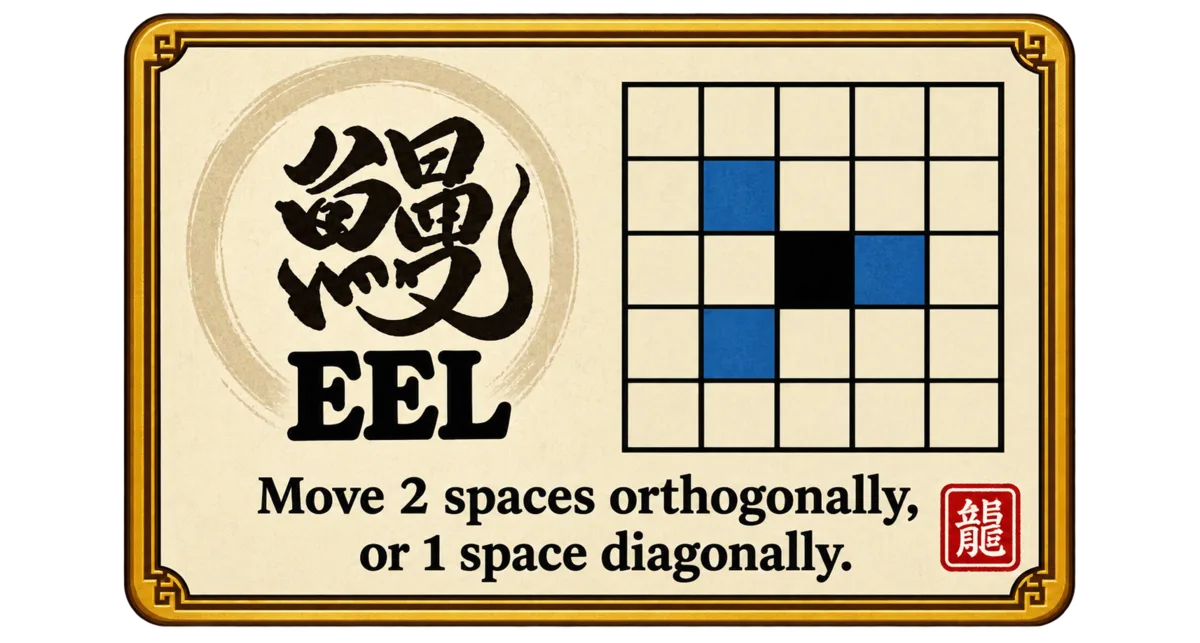
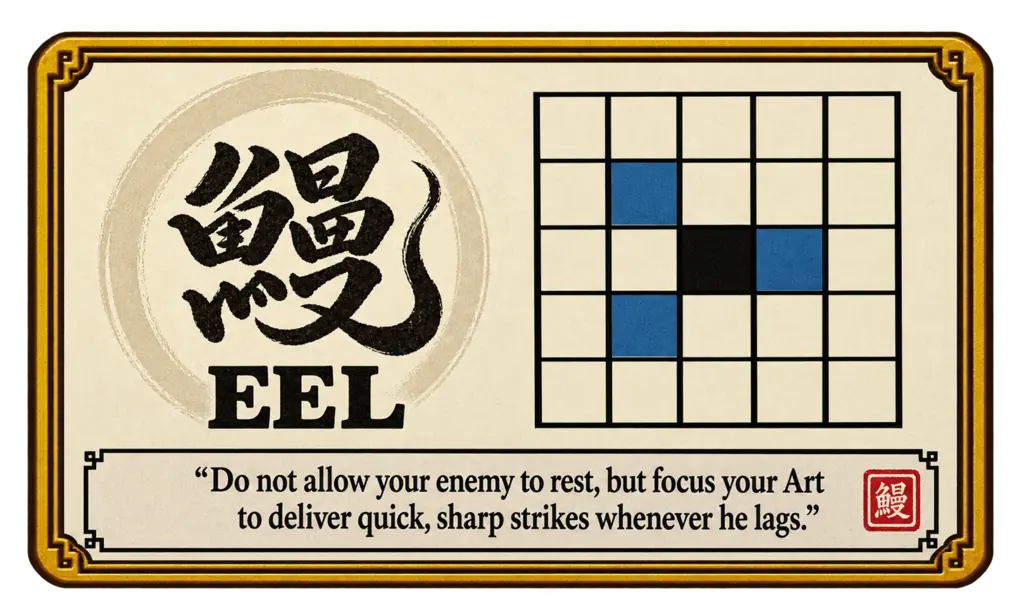
Add optimized artwork for all Onitama cards

diff --git a/app/src/main/kotlin/com/mkdev/mkboardgames/games/onitama/Onitama.kt b/app/src/main/kotlin/com/mkdev/mkboardgames/games/onitama/Onitama.kt
@@ -30,21 +30,21 @@ object OnitamaCards {
      * side of the mat. Black mirrors both axes when using a card.
      */
     val all: List<OnitamaCard> = listOf(
-        OnitamaCard("tiger", "Tiger", listOf(Position(-2, 0), Position(1, 0))),
+        OnitamaCard("tiger", "Tiger", listOf(Position(-2, 0), Position(1, 0)), "onitama_card_tiger.webp"),
         OnitamaCard("dragon", "Dragon", listOf(Position(-1, -2), Position(-1, 2), Position(1, -1), Position(1, 1)), "onitama_card_dragon.webp"),
-        OnitamaCard("frog", "Frog", listOf(Position(-1, -1), Position(0, -2), Position(1, 1))),
-        OnitamaCard("rabbit", "Rabbit", listOf(Position(-1, 1), Position(0, 2), Position(1, -1))),
-        OnitamaCard("crab", "Crab", listOf(Position(-1, 0), Position(0, -2), Position(0, 2))),
-        OnitamaCard("elephant", "Elephant", listOf(Position(-1, -1), Position(-1, 1), Position(0, -1), Position(0, 1))),
-        OnitamaCard("goose", "Goose", listOf(Position(-1, -1), Position(0, -1), Position(0, 1), Position(1, 1))),
-        OnitamaCard("rooster", "Rooster", listOf(Position(-1, 1), Position(0, -1), Position(0, 1), Position(1, -1))),
+        OnitamaCard("frog", "Frog", listOf(Position(-1, -1), Position(0, -2), Position(1, 1)), "onitama_card_frog.webp"),
+        OnitamaCard("rabbit", "Rabbit", listOf(Position(-1, 1), Position(0, 2), Position(1, -1)), "onitama_card_rabbit.webp"),
+        OnitamaCard("crab", "Crab", listOf(Position(-1, 0), Position(0, -2), Position(0, 2)), "onitama_card_crab.webp"),
+        OnitamaCard("elephant", "Elephant", listOf(Position(-1, -1), Position(-1, 1), Position(0, -1), Position(0, 1)), "onitama_card_elephant.webp"),
+        OnitamaCard("goose", "Goose", listOf(Position(-1, -1), Position(0, -1), Position(0, 1), Position(1, 1)), "onitama_card_goose.webp"),
+        OnitamaCard("rooster", "Rooster", listOf(Position(-1, 1), Position(0, -1), Position(0, 1), Position(1, -1)), "onitama_card_rooster.webp"),
         OnitamaCard("monkey", "Monkey", listOf(Position(-1, -1), Position(-1, 1), Position(1, -1), Position(1, 1)), "onitama_card_monkey.webp"),
         OnitamaCard("mantis", "Mantis", listOf(Position(-1, -1), Position(-1, 1), Position(1, 0)), "onitama_card_mantis.webp"),
-        OnitamaCard("horse", "Horse", listOf(Position(0, -1), Position(-1, 0), Position(1, 0))),
-        OnitamaCard("ox", "Ox", listOf(Position(-1, 0), Position(0, 1), Position(1, 0))),
-        OnitamaCard("crane", "Crane", listOf(Position(-1, 0), Position(1, -1), Position(1, 1))),
-        OnitamaCard("boar", "Boar", listOf(Position(-1, 0), Position(0, -1), Position(0, 1))),
-        OnitamaCard("cobra", "Cobra", listOf(Position(-1, 1), Position(0, -1), Position(1, 1))),
+        OnitamaCard("horse", "Horse", listOf(Position(0, -1), Position(-1, 0), Position(1, 0)), "onitama_card_horse.webp"),
+        OnitamaCard("ox", "Ox", listOf(Position(-1, 0), Position(0, 1), Position(1, 0)), "onitama_card_ox.webp"),
+        OnitamaCard("crane", "Crane", listOf(Position(-1, 0), Position(1, -1), Position(1, 1)), "onitama_card_crane.webp"),
+        OnitamaCard("boar", "Boar", listOf(Position(-1, 0), Position(0, -1), Position(0, 1)), "onitama_card_boar.webp"),
+        OnitamaCard("cobra", "Cobra", listOf(Position(-1, 1), Position(0, -1), Position(1, 1)), "onitama_card_cobra.webp"),
         OnitamaCard("eel", "Eel", listOf(Position(-1, -1), Position(0, 1), Position(1, -1)), "onitama_card_eel.webp"),
     )
 
